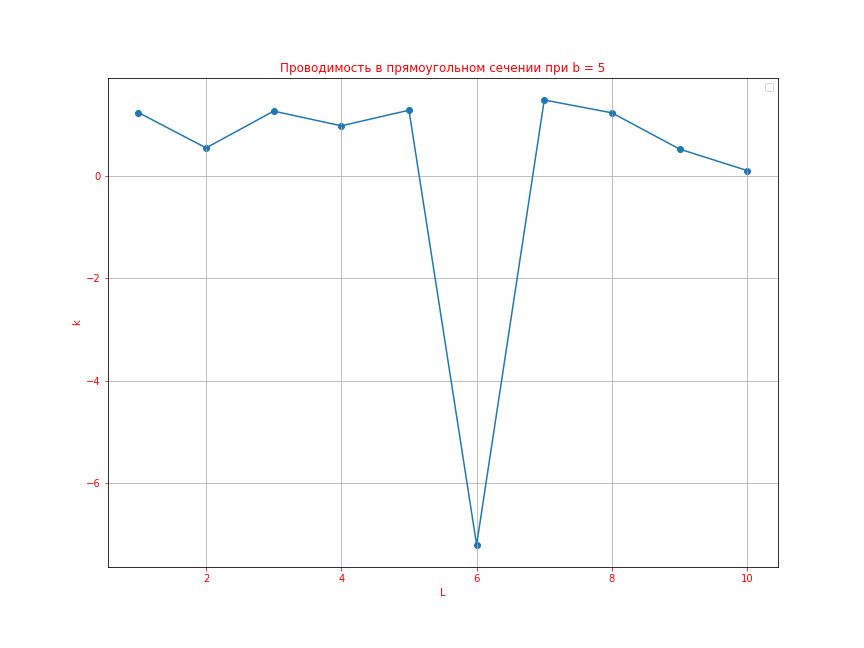
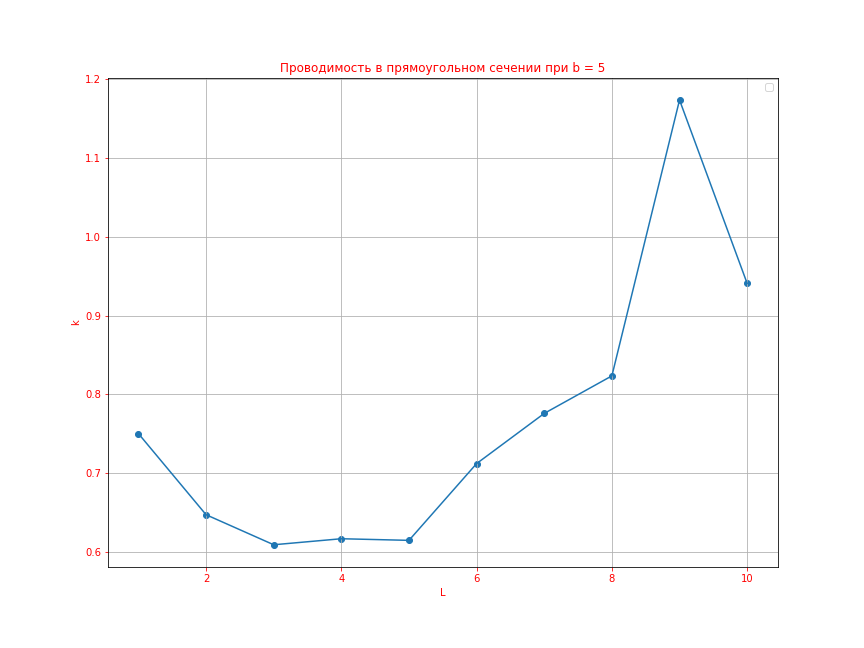
Modify rectangular.py

diff --git a/rectangular.py b/rectangular.py
@@ -2,10 +2,12 @@ import os
 import math
 import numpy as np
 
-#УГЛОВЫЕ КОЭФФИЦИЕНТЫ
+
+# УГЛОВЫЕ КОЭФФИЦИЕНТЫ
 def scalar_prod(v_1, v_2):
     v_1, v_2 = np.array(v_1), np.array(v_2)
-    return (v_1 * v_2).sum()
+    return np.dot(v_1, v_2)
+
 
 def module(v):
     return math.sqrt(scalar_prod(v, v))
@@ -22,15 +24,17 @@ def elementary(center_i: list, center_j: list, normal_i: list, normal_j: list, F
     cos_2 = abs(scalar_prod(normal_j, center_i - center_j)) / (r * n_j)
     return cos_1 * cos_2 / (math.pi * r ** 2) * F_j
 
+
 def local(center_i, centers_2, normal_i, normal_j, F_j):
-    return sum([ elementary(center_i, center, normal_i, normal_j, F_j) for center in centers_2])
-
-def emitter_to_collector(centers_1, centers_2,normal_1, normal_2, F_i, F_j):
-    #F_i - площадь одной ячейки эмиттера.
-    return sum( [ local(center, centers_2, normal_1, normal_2, F_j) for center in centers_1 ] ) * F_i
+    return sum([elementary(center_i, center, normal_i, normal_j, F_j) for center in centers_2])
 
 
-#РАЗБИЕНИЕ
+def emitter_to_collector(centers_1, centers_2, normal_1, normal_2, F_i, F_j):
+    # F_i - площадь одной ячейки эмиттера.
+    return sum([local(center, centers_2, normal_1, normal_2, F_j) for center in centers_1]) * F_i
+
+
+# РАЗБИЕНИЕ
 def euclid(num_1, num_2):
     while num_1 != num_2:
         if num_1 > num_2:
@@ -39,19 +43,21 @@ def euclid(num_1, num_2):
             num_2 -= num_1
     return num_1
 
-#ф-ция находит минимальное количество квадратов
-#с одинаковой площадью, на которое можно разбить
-#данный прямоугольник
-def search_squares(a : int, b : int) -> int:
-    gcd = euclid(a,b) #НОД
-    return a*b/gcd
 
-#ф-ция ищет оптимальное кол-во квадратов
-#в зависимости от введенного кол-ва
+# ф-ция находит минимальное количество квадратов
+# с одинаковой площадью, на которое можно разбить
+# данный прямоугольник
+def search_squares(a: int, b: int) -> int:
+    gcd = euclid(a, b)  # НОД
+    return int(a * b / gcd)
+
+
+# ф-ция ищет оптимальное кол-во квадратов
+# в зависимости от введенного кол-ва
 def optimal_squares(a, b, num):
-    min_num = search_squares(a,b)
-    n       = num//(4*min_num)
-    return min_num if n == 0 else 4*min_num*n
+    min_num = search_squares(a, b)
+    n = num // (4 * min_num)
+    return 4 * min_num * n if n > 0 else min_num
 
 
 # функции разбиения каждой отдельной поверхности на ячейки.
@@ -73,7 +79,7 @@ def breaking_1(a, b, num, s=0) -> list:
             z = b / (2 * l_2) + b / l_2 * j
             center = [x, 0, z]
             res.append(center)
-    return res, num
+    return res
 
 
 def breaking_2(a, b, num, s) -> list:
@@ -89,7 +95,7 @@ def breaking_2(a, b, num, s) -> list:
             z = b / (2 * l_2) + b / l_2 * j
             center = [x, s, z]
             res.append(center)
-    return res, num
+    return res
 
 
 def breaking_3(a, b, num, s) -> list:
@@ -105,7 +111,7 @@ def breaking_3(a, b, num, s) -> list:
             y = s / (2 * l_2) + s / l_2 * j
             center = [x, y, b]
             res.append(center)
-    return res, num
+    return res
 
 
 def breaking_4(a, b, num, s) -> list:
@@ -121,7 +127,7 @@ def breaking_4(a, b, num, s) -> list:
             z = b / (2 * l_2) + b / l_2 * j
             center = [0, y, z]
             res.append(center)
-    return res, num
+    return res
 
 
 def breaking_5(a, b, num, s) -> list:
@@ -137,7 +143,7 @@ def breaking_5(a, b, num, s) -> list:
             y = s / (2 * l_2) + s / l_2 * j
             center = [x, y, 0]
             res.append(center)
-    return res, num
+    return res
 
 
 def breaking_6(a, b, num, s) -> list:
@@ -153,29 +159,33 @@ def breaking_6(a, b, num, s) -> list:
             z = b / (2 * l_2) + b / l_2 * j
             center = [a, y, z]
             res.append(center)
-    return res, num
+    return res
 
-#площади "уникальных" поверхностей - area_1 == area_2 итд
+
+# площади "уникальных" поверхностей - area_1 == area_2 итд
 def area_1(a, b, s):
-    return a*b
+    return a * b
+
 
 def area_3(a, b, s):
-    return a*s
+    return a * s
+
 
 def area_4(a, b, s):
-    return s*b
+    return s * b
 
-#ПРОВОДИМОСТЬ
-#ф-ция, заменяющая столбец матрицы
-def change_column(A, j : int = 0):
-    #A - матрица
-    #j - номер изменяемого столбца
+
+# ПРОВОДИМОСТЬ
+# ф-ция, заменяющая столбец матрицы
+def change_column(A, j: int = 0):
+    # A - матрица
+    # j - номер изменяемого столбца
     new_A = A.copy()
     for i in range(len(new_A)):
         if i:
             new_A[i][j] = 0
         else:
-            new_A[i][j] = -1
+            new_A[i][j] = 1
     return new_A
 
 
@@ -202,17 +212,19 @@ class Rectangular:
         # параметры коллектора:
         # num_j - число квадратов, на которое
         # удалось разделить коллектор в итоге
-        collector, num_j = self.breaking[j](self.a, self.b, num_2, self.L)
-        normal_j = self.normals[j]
-        cell_j = self.areas[j] / num_j
+        collector = self.breaking[j](self.a, self.b, num_2, self.L)
+        num_j     = len(collector)
+        normal_j  = self.normals[j]
+        cell_j    = self.areas[j] / num_j
 
         # параметры эмиттера:
         # num_i - число квадратов, на которое
         # удалось разделить эмиттер в итоге
-        emitter, num_i = self.breaking[i](self.a, self.b, num_1, self.L)
-        normal_i = self.normals[i]
-        area_i = self.areas[i]
-        cell_i = area_i / num_i
+        emitter   = self.breaking[i](self.a, self.b, num_1, self.L)
+        num_i     = len(emitter)
+        normal_i  = self.normals[i]
+        area_i    = self.areas[i]
+        cell_i    = area_i / num_i
         return emitter_to_collector(emitter, collector, normal_i, normal_j, cell_i, cell_j) / area_i
 
     def matrix(self, num_1, num_2):
@@ -243,18 +255,18 @@ class Rectangular:
     def clausing(self, num_1=10, num_2=10):
         phi = self.matrix(num_1, num_2)
         # СЛУ
-        sle = [[-1, phi[2][1], 2 * phi[3][1], 2 * phi[4][1]], [phi[1][2], -1, 2 * phi[3][2], 2 * phi[4][2]],
-               [phi[1][3], phi[2][3], -1 + phi[5][3], 2 * phi[4][3]],
-               [phi[1][4], phi[2][4], 2 * phi[3][4], -1 + phi[6][4]]]
+        sle = [[1, 0, 0],
+               [-phi[1][3], 1 - phi[5][3], -2 * phi[4][3]],
+               [-phi[1][4], -2 * phi[3][4], 1 - phi[6][4]]]
         sle = np.array(sle)
         delta = np.linalg.det(sle)
-        q = []
+        q = []  # [Q_1, Q_3, Q_4]
         # метод Крамера
-        for j in range(4):
+        for j in range(3):
             new_sle = change_column(sle, j)
             delta_j = np.linalg.det(new_sle)
             q.append(delta_j / delta)
         res = phi[1][2] * q[0]
-        res += 2 * phi[3][2] * q[2]
-        res += 2 * phi[4][2] * q[3]
+        res += 2 * phi[3][2] * q[1]
+        res += 2 * phi[4][2] * q[2]
         return res
